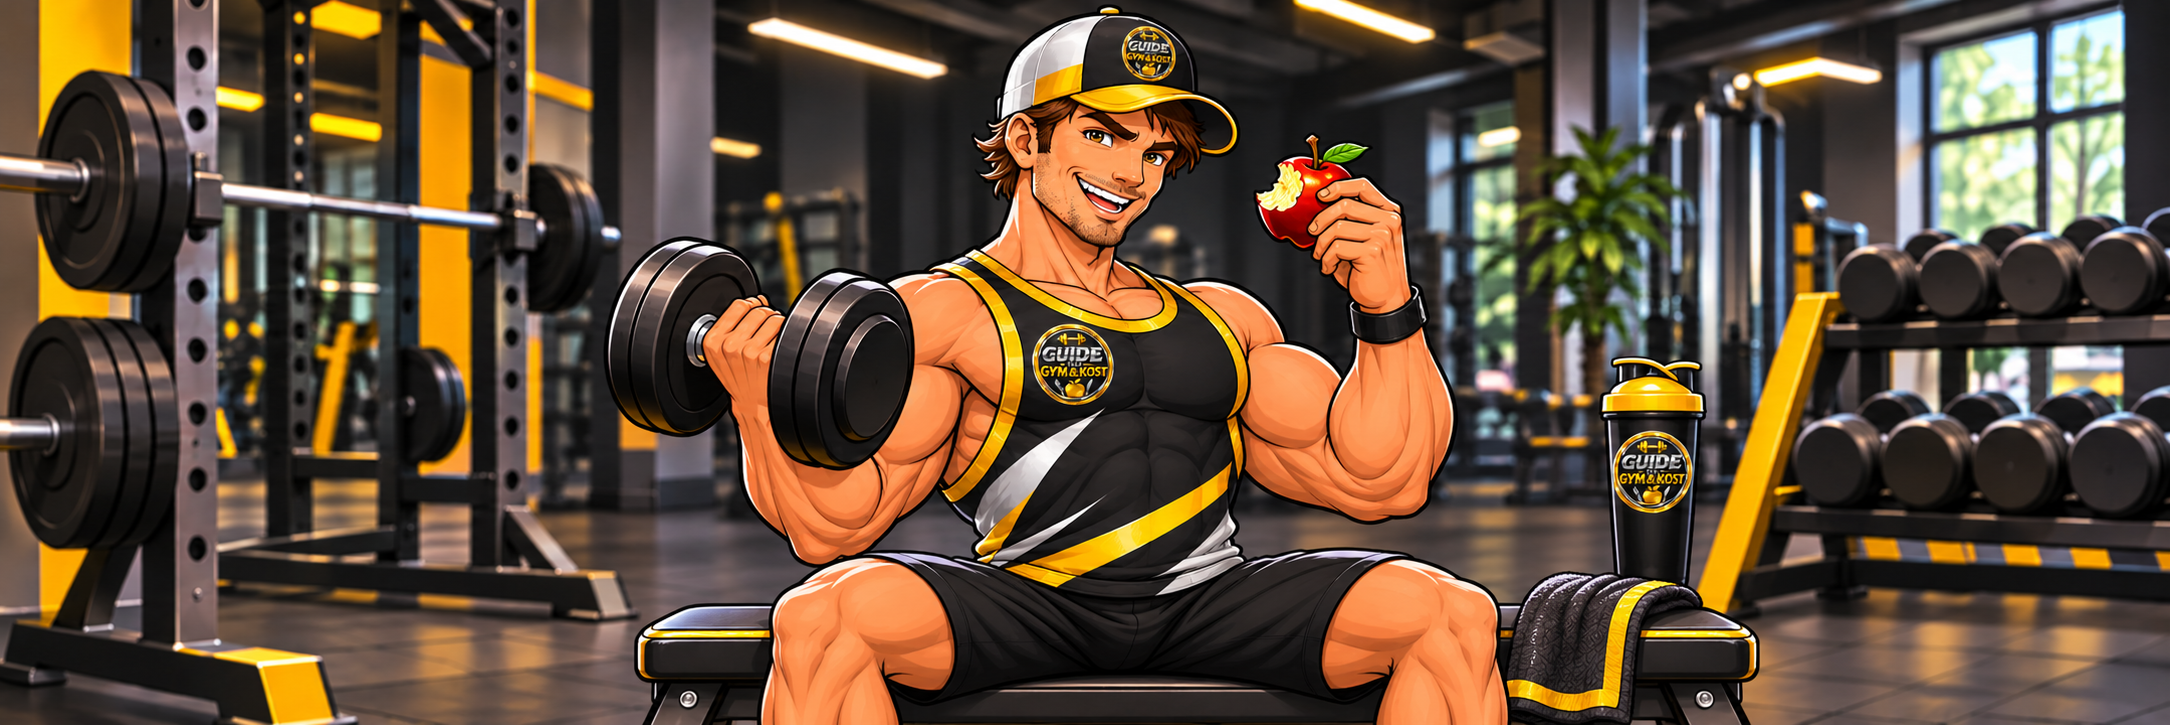
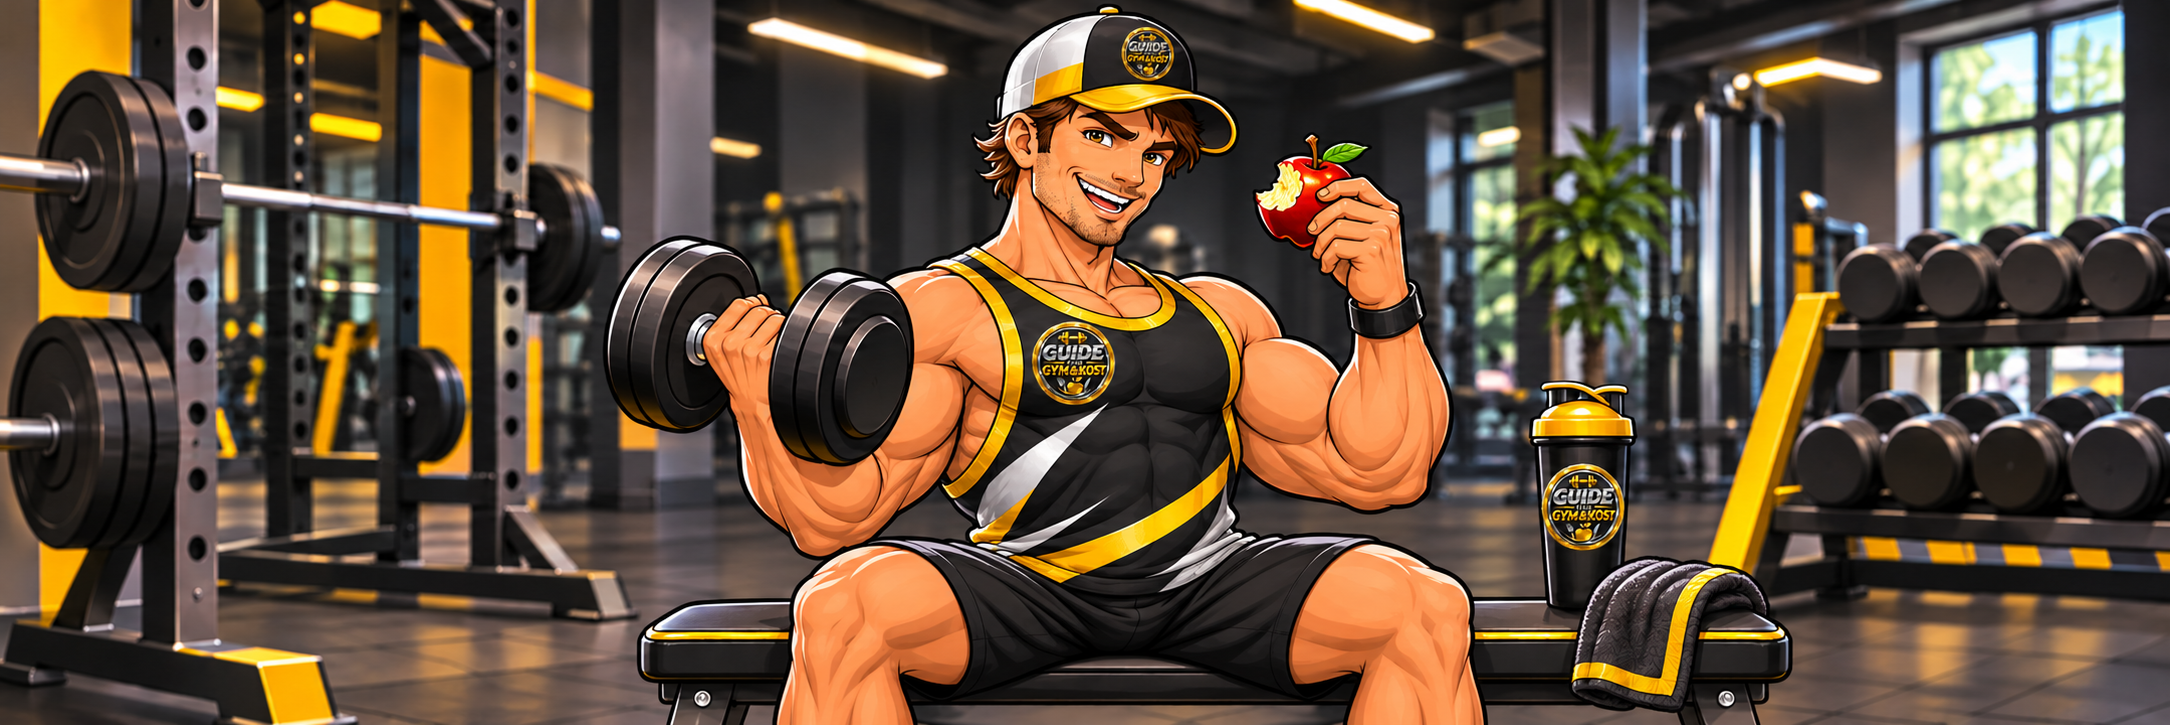
ändringar
ändringar

diff --git a/index.html b/index.html
@@ -22,25 +22,42 @@
 </header>
 
 <main>
-    <section class="startbild">
-        <h1>Kom igång med gym och kost!</h1>
+
+    
+
+    <section class="startbild-box">
+
+        <h1 class="starttext">
+            Kom igång<br>
+            med gym<br>
+            och kost!
+        </h1>
     </section>
 
-    <section class="content-box">
+    <section class="intro-layout">
 
-        <h2>Introduktion</h2>
-        <p>
-            Gymmet kan kännas läskigt för den som är ny, och mängden olika råd om kost och
-            träning kan göra det förvirrande. Många personer har påståenden och åsikter om
-            vad som är bäst, men en persons råd och principer motsäger ofta en annans.
-            Alla kroppar reagerar olika så det bästa man kan göra är att experimentera
-            med vad som fungerar för dig. På den här sidan kommer jag främst att gå
-            igenom uppbyggandet av din kost och träning så att du själv kan bygga ditt kost-
-            och träningsschema. Under kost kommer du att hitta olika protein-, kolhydrat-
-            och fettkällor samt deras näringsinnehåll. Under övningar kommer du att hitta
-            exempel på övningar för olika muskelgrupper.
-        </p>
+        <div class="intro-rubrik">
+            <h2>Introduktion</h2>
+        </div>
+
+        
+
+        <div class="intro-box">
+            <p>
+                Gymmet kan kännas läskigt för den som är ny, och mängden olika råd om kost och
+                träning kan göra det förvirrande. Många personer har påståenden och åsikter om
+                vad som är bäst, men en persons råd och principer motsäger ofta en annans.
+                Alla kroppar reagerar olika så det bästa man kan göra är att experimentera
+                med vad som fungerar för dig. På den här sidan kommer jag främst att gå
+                igenom uppbyggandet av din kost och träning så att du själv kan bygga ditt kost-
+                och träningsschema. Under kost kommer du att hitta olika protein-, kolhydrat-
+                och fettkällor samt deras näringsinnehåll. Under övningar kommer du att hitta
+                exempel på övningar för olika muskelgrupper.
+            </p>
+        </div>
     </section>
+
+    
     <h2>Om mig och min träning</h2>
     <p>
         Mitt namn är Mattias Jansson, jag är 26 år gammal och har tränat till och från

diff --git a/style.css b/style.css
@@ -1,6 +1,6 @@
 body {
     margin: 0;
-    background-color: #d6d6d6;
+    background-color: #eeeeee;
     color: #222;
     font-family: Arial, sans-serif;
 }
@@ -20,7 +20,7 @@ body {
 }
 
 .site-title {
-    width: 180px;
+    width: 100px;
 }
 
 .site-title img {
@@ -58,17 +58,89 @@ body {
 main {
     max-width: 1200px;
     margin: 0 auto;
-    background-color: #d6d6d6;
-    padding: 30px;
+    background-color: #eeeeee;
+    padding: 0 30px 30px 30px;
     min-height: 100%;
 }
+
 
 .content-box {
     background-color: #3f3f3f;
     color: white;
-    padding: 30px;
-    margin-bottom: 30px;
-    border-radius: 16px;
+    padding: 40px;
+    border-radius: 18px;
+}
+
+.content-box p {
+    font-size: 17px;
+    line-height: 1.6;
+    margin: 0;
+}
+
+.intro-layout {
+    display: flex;
+    align-items: flex-start;
+    gap: 80px;
+
+    margin-top: 60px;
+    margin-bottom: 80px;
+}
+
+.intro-rubrik {
+    width: 30%;
+}
+
+
+
+.intro-rubrik h2 {
+    font-size: 48px;
+    margin: 0;
+}
+
+.intro-box{
+    width: 70%;
+    background-color: #3f3f3f;
+    color: white;
+
+    padding: 40px;
+    border-radius: 18px;
+    box-sizing: border-box;
+}
+
+.intro-box p{
+    margin: 0;
+    font-size: 18px;
+    line-height: 1.7;
+}
+
+
+.startbild-box {
+    background-image: url("bilder/startbild.png");
+    background-size: cover;
+    background-position: center;
+    min-height: 600px;
+    margin-left: -350px;
+    margin-right: -350px;
+    display: flex;
+    align-items: center;
+}
+
+.starttext {
+    color: black;
+    font-size: 4rem;
+    font-weight: 900;
+    line-height: 1.05;
+    margin-left: 80px;
+    max-width: 400px;
+    
+    text-transform: uppercase;
+    font-style: italic;
+
+    -webkit-text-stroke: 2px #d4af37;
+
+    text-shadow:
+        3px 3px 0 #222,
+        6px 6px 12px rgba(0, 0, 0, 0.7);
 }
 
 footer {
